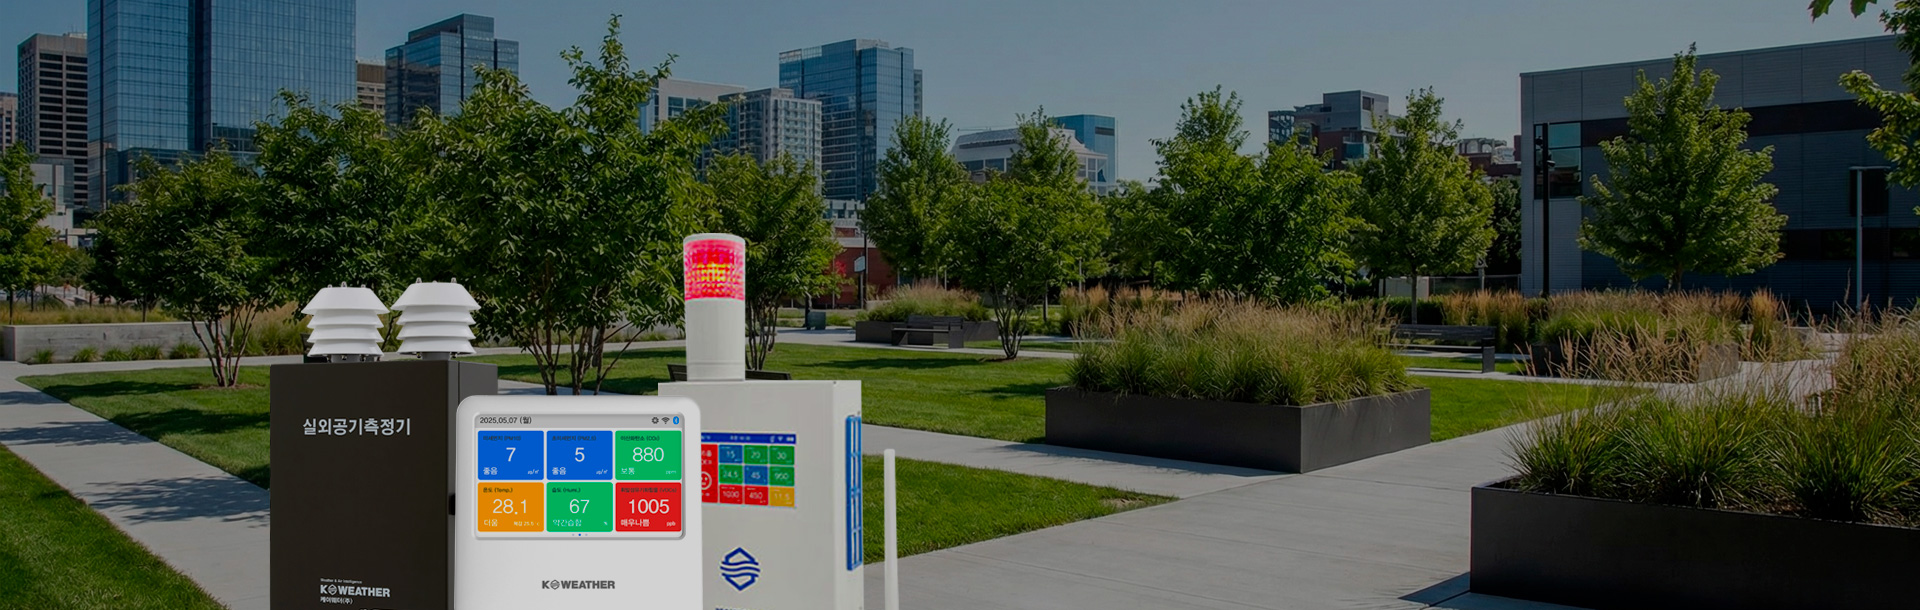
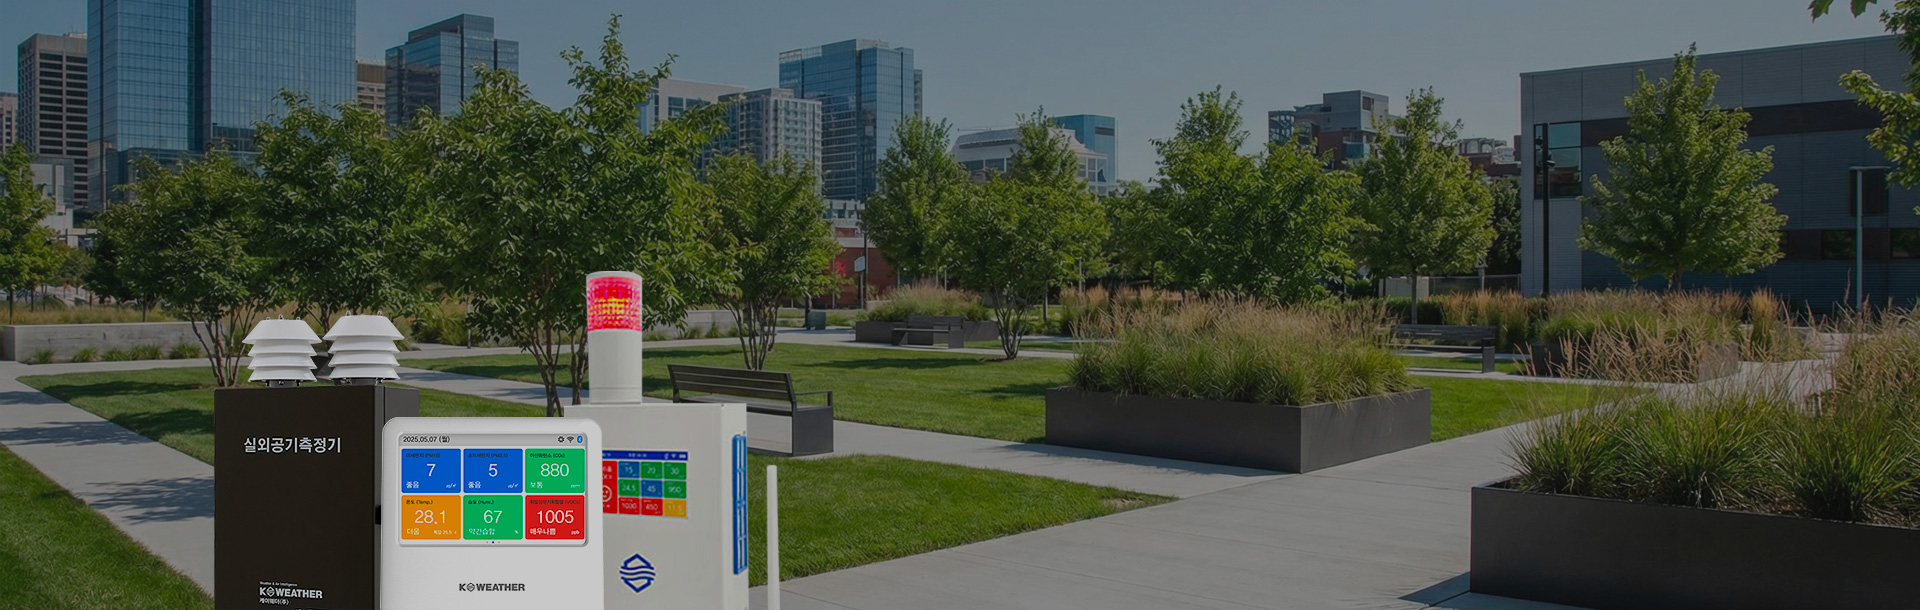
feat: IA/서브페이지 air365 표기를 Air365로 통일, 공기측정기 서브 상단 이미지 교체

diff --git a/src/app/data/air365/page.tsx b/src/app/data/air365/page.tsx
@@ -6,7 +6,7 @@ import SubHero from "@/components/sub/SubHero";
 import "@/components/sub/sub.css";
 
 export const metadata: Metadata = {
-  title: "공기관리 소프트웨어",
+  title: "Air365",
   description: "케이웨더 Air365 — 실내외 공기질을 365일 관리하는 공기관리 서비스.",
 };
 
@@ -19,14 +19,14 @@ export default function Air365Page() {
       <main>
         <SubHero
           image="/assets/sub/data_air365.jpg"
-          title="공기관리 소프트웨어"
+          title="Air365"
           subtitle={"실내외 공기질을 실시간으로 측정·수집하는\n케이웨더 공기 빅데이터 서비스"}
         />
 
         <section className="company-intro air365-intro">
           <h2 className="company-intro__title">보이지 않는 공기를 보이게 관리하는 소프트웨어</h2>
           <p className="company-intro__desc air365-desc">
-            공기관리 소프트웨어(S/W)는 내가 머무는 공간의 공기질을 각종 데이터를 기반으로
+            Air365는 내가 머무는 공간의 공기질을 각종 데이터를 기반으로
             <br />
             과학적으로 분석하여 ‘보이지 않는 공기를 24시간 보이게 관리’ 할 수 있도록 돕습니다.
           </p>

diff --git a/src/components/Footer.tsx b/src/components/Footer.tsx
@@ -9,7 +9,7 @@ const COLS: { title: string; groups: string[][]; groupGap?: number }[] = [
     title: "데이터",
     groupGap: 14, /* 웨더맵 추가로 기상 그룹이 5개 → 공기/기상 그룹 간격 축소 */
     groups: [
-      ["공기예보", "공기측정데이터", "동별미세먼지", "air365"],
+      ["공기예보", "공기측정데이터", "동별미세먼지", "Air365"],
       ["기상예보", "기상데이터", "웨더맵", "방송컨텐츠", "모바일정보"],
     ],
   },
@@ -40,7 +40,7 @@ const MENU_LINKS: Record<string, string> = {
   공기측정데이터: "/data/measure",
   공기예보: "/data/air",
   동별미세먼지: "/data/dong",
-  air365: "/data/air365",
+  Air365: "/data/air365",
   기상데이터: "/data/weather",
   웨더맵: "/data/weathermap",
   기상예보: "/data/ai",

diff --git a/src/app/reference/air/08/page.tsx b/src/app/reference/air/08/page.tsx
@@ -22,7 +22,7 @@ export default function ReferenceAirAppleStoragePage() {
       <Header solid />
       <main>
         <SubHero
-          image="/assets/sub/subtop_airmeter_re.jpg?v=4"
+          image="/assets/sub/subtop_airmeter_re.jpg?v=9"
           imagePosition="center bottom"
           title="공기지능 사례"
           subtitle={"현장에서 증명한 공기 관리\n케이웨더 공기지능 컨설팅 적용 사례"}

diff --git a/src/app/reference/air/06/page.tsx b/src/app/reference/air/06/page.tsx
@@ -22,7 +22,7 @@ export default function ReferenceAirEunpyeongPage() {
       <Header solid />
       <main>
         <SubHero
-          image="/assets/sub/subtop_airmeter_re.jpg?v=4"
+          image="/assets/sub/subtop_airmeter_re.jpg?v=9"
           imagePosition="center bottom"
           title="공기지능 사례"
           subtitle={"현장에서 증명한 공기 관리\n케이웨더 공기지능 컨설팅 적용 사례"}

diff --git a/src/app/reference/air/05/page.tsx b/src/app/reference/air/05/page.tsx
@@ -22,7 +22,7 @@ export default function ReferenceAirSeongnamPage() {
       <Header solid />
       <main>
         <SubHero
-          image="/assets/sub/subtop_airmeter_re.jpg?v=4"
+          image="/assets/sub/subtop_airmeter_re.jpg?v=9"
           imagePosition="center bottom"
           title="공기지능 사례"
           subtitle={"현장에서 증명한 공기 관리\n케이웨더 공기지능 컨설팅 적용 사례"}

diff --git a/src/app/reference/air/07/page.tsx b/src/app/reference/air/07/page.tsx
@@ -22,7 +22,7 @@ export default function ReferenceAirLhHaenamPage() {
       <Header solid />
       <main>
         <SubHero
-          image="/assets/sub/subtop_airmeter_re.jpg?v=4"
+          image="/assets/sub/subtop_airmeter_re.jpg?v=9"
           imagePosition="center bottom"
           title="공기지능 사례"
           subtitle={"현장에서 증명한 공기 관리\n케이웨더 공기지능 컨설팅 적용 사례"}

diff --git a/src/app/product/airmeter/page.tsx b/src/app/product/airmeter/page.tsx
@@ -18,7 +18,7 @@ export default function AirMeterPage() {
       <Header solid />
       <main>
         <SubHero
-          image="/assets/sub/subtop_airmeter_re.jpg?v=4"
+          image="/assets/sub/subtop_airmeter_re.jpg?v=9"
           imagePosition="center bottom"
           title="공기측정기"
           subtitle={"보이지 않는 공기를 데이터로 관리하는\n정확한 날씨 · 미세먼지 정보 제공"}

diff --git a/src/app/reference/air/03/page.tsx b/src/app/reference/air/03/page.tsx
@@ -22,7 +22,7 @@ export default function ReferenceAirOsongPage() {
       <Header solid />
       <main>
         <SubHero
-          image="/assets/sub/subtop_airmeter_re.jpg?v=4"
+          image="/assets/sub/subtop_airmeter_re.jpg?v=9"
           imagePosition="center bottom"
           title="공기지능 사례"
           subtitle={"현장에서 증명한 공기 관리\n케이웨더 공기지능 컨설팅 적용 사례"}

diff --git a/src/app/reference/air/04/page.tsx b/src/app/reference/air/04/page.tsx
@@ -22,7 +22,7 @@ export default function ReferenceAirPoscoPage() {
       <Header solid />
       <main>
         <SubHero
-          image="/assets/sub/subtop_airmeter_re.jpg?v=4"
+          image="/assets/sub/subtop_airmeter_re.jpg?v=9"
           imagePosition="center bottom"
           title="공기지능 사례"
           subtitle={"현장에서 증명한 공기 관리\n케이웨더 공기지능 컨설팅 적용 사례"}

diff --git a/src/app/reference/air/02/page.tsx b/src/app/reference/air/02/page.tsx
@@ -22,7 +22,7 @@ export default function ReferenceAirKpgaPage() {
       <Header solid />
       <main>
         <SubHero
-          image="/assets/sub/subtop_airmeter_re.jpg?v=4"
+          image="/assets/sub/subtop_airmeter_re.jpg?v=9"
           imagePosition="center bottom"
           title="공기지능 사례"
           subtitle={"현장에서 증명한 공기 관리\n케이웨더 공기지능 컨설팅 적용 사례"}

diff --git a/src/app/reference/air/01/page.tsx b/src/app/reference/air/01/page.tsx
@@ -22,7 +22,7 @@ export default function ReferenceAir01Page() {
       <Header solid />
       <main>
         <SubHero
-          image="/assets/sub/subtop_airmeter_re.jpg?v=4"
+          image="/assets/sub/subtop_airmeter_re.jpg?v=9"
           imagePosition="center bottom"
           title="공기지능 사례"
           subtitle={"현장에서 증명한 공기 관리\n케이웨더 공기지능 컨설팅 적용 사례"}

diff --git a/src/components/Header.tsx b/src/components/Header.tsx
@@ -28,7 +28,7 @@ const MEGA_COLS: { key: string; x: number; blocks: MegaBlock[] }[] = [
           { label: "공기예보", href: "/data/air" },
           { label: "공기측정데이터", href: "/data/measure" },
           { label: "동별 미세먼지", href: "/data/dong" },
-          { label: "air365", href: "/data/air365" },
+          { label: "Air365", href: "/data/air365" },
         ],
       },
       {
